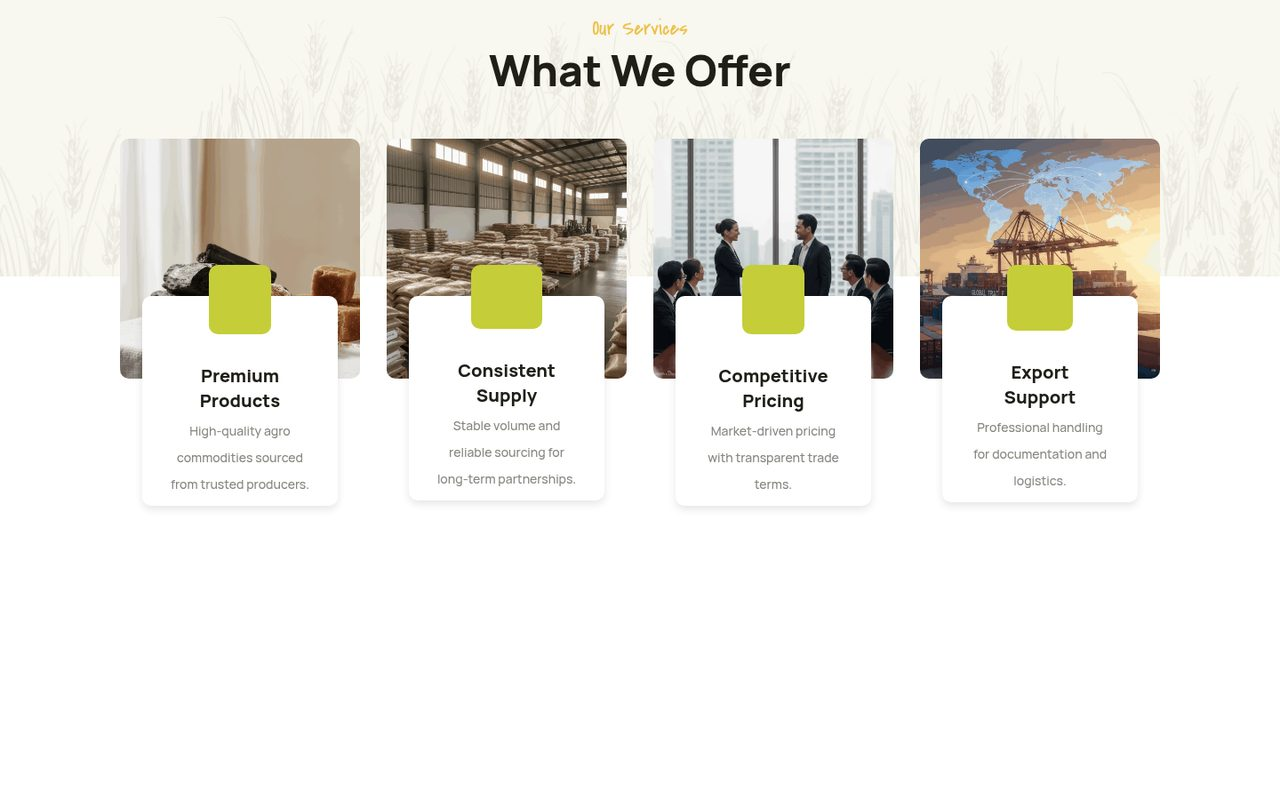
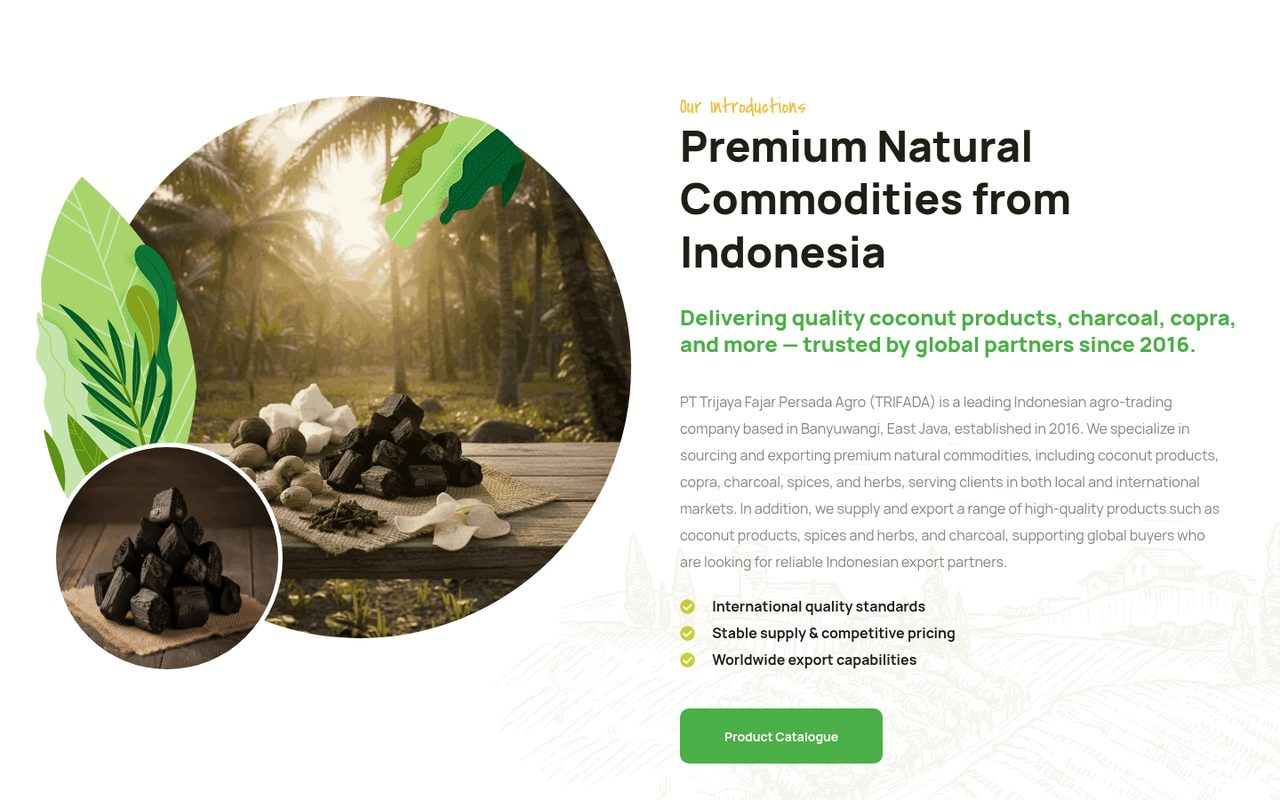
Content pass: fuller copy, work cases, new screenshots (no promises)

diff --git a/index.html b/index.html
@@ -25,7 +25,7 @@
     </div>
   </nav>
   <div class="hero-meta wrap">
-    <p class="lede">I design and build websites for tour operators, technical suppliers, exporters and clinics. Clear pages, fast to enquire, easy to keep updated.</p>
+    <p class="lede">I design and build websites for tour operators, technical suppliers, exporters and clinics, from layout and visual design to the finished WordPress build.</p>
     <span class="role">Web Developer <span class="arr" aria-hidden="true">&#8600;</span></span>
   </div>
   <h1 class="name wrap">Fiki<br>Andriyan <span class="dash">&mdash;</span></h1>
@@ -116,7 +116,7 @@
         </a>
         <a class="row" href="https://trifada.co.id" target="_blank" rel="noopener">
           <span class="num">09</span>
-          <img class="thumb" src="shots/trifada.jpg" alt="Trifada homepage services section for an agro export company" loading="lazy">
+          <img class="thumb" src="shots/trifada.jpg" alt="Trifada homepage section introducing premium natural commodities from Indonesia" loading="lazy">
           <span class="row-main"><span class="row-name">Trijaya Fajar Persada Agro</span><span class="row-type">Agro commodity exporter &middot; English</span><span class="row-desc">Export company site covering coconut products, charcoal, copra and spices, with a product catalogue, services and buyer testimonials.</span></span>
           <span class="go" aria-hidden="true">&#8599;</span>
         </a>
@@ -130,7 +130,7 @@
       <div class="about-text">
         <p class="lead">I'm Fiki Andriyan, a web developer in Indonesia. I design and build websites from the first layout to the live page.</p>
         <p>The work above covers tour operators in Bali and the Gili Islands, industrial and laboratory suppliers, an agro exporter and an aesthetic clinic with an online store. Different industries, same job: explain what the business offers and make the next step obvious, whether that is a datasheet, a quote or a WhatsApp message.</p>
-        <p>Most sites are in English for visitors abroad, and some in Bahasa Indonesia for local buyers. I build in WordPress, so the owner can change text, photos and packages without calling a developer.</p>
+        <p>Most sites are in English for visitors abroad, and some in Bahasa Indonesia for local buyers. I design the layout and build it in WordPress, including WooCommerce where a site needs a shop.</p>
         <dl class="facts">
           <div><dt>Role</dt><dd>Design &amp; development</dd></div>
           <div><dt>Stack</dt><dd>WordPress, WooCommerce</dd></div>
@@ -148,9 +148,9 @@
         <div class="item"><span class="snum">01</span><h3>Booking &amp; tour sites</h3><p>Package pages with clear routes, what is included, FAQs and reviews, and a booking step that works from a phone, such as WhatsApp.</p><span class="seen">Seen in Bali Buggy Ubud, Quad ATV Bali</span></div>
         <div class="item"><span class="snum">02</span><h3>Product catalogues</h3><p>Structured product families, category and brand browsing, downloadable datasheets and an inquiry form, for buyers who compare before they contact.</p><span class="seen">Seen in Morgen, Karunia Jasindo</span></div>
         <div class="item"><span class="snum">03</span><h3>Company websites</h3><p>A clear story of who you are and what you supply, with products, projects, articles and a quote request. Built for English or local-language visitors.</p><span class="seen">Seen in Berlian Djaya Nusantara, Trifada</span></div>
-        <div class="item"><span class="snum">04</span><h3>Online stores</h3><p>WooCommerce shops with product pages, cart and wishlist, set up so you can add and edit products yourself.</p><span class="seen">Seen in Gloskin</span></div>
+        <div class="item"><span class="snum">04</span><h3>Online stores</h3><p>WooCommerce shops with product pages, cart and wishlist, designed to match the brand.</p><span class="seen">Seen in Gloskin</span></div>
       </div>
-      <p class="svc-foot">Every site starts with the same question: what does a visitor need to see before they message you?</p>
+      <p class="svc-foot">Design and development, from the first layout to the live site.</p>
     </div>
   </section>
 </main>
